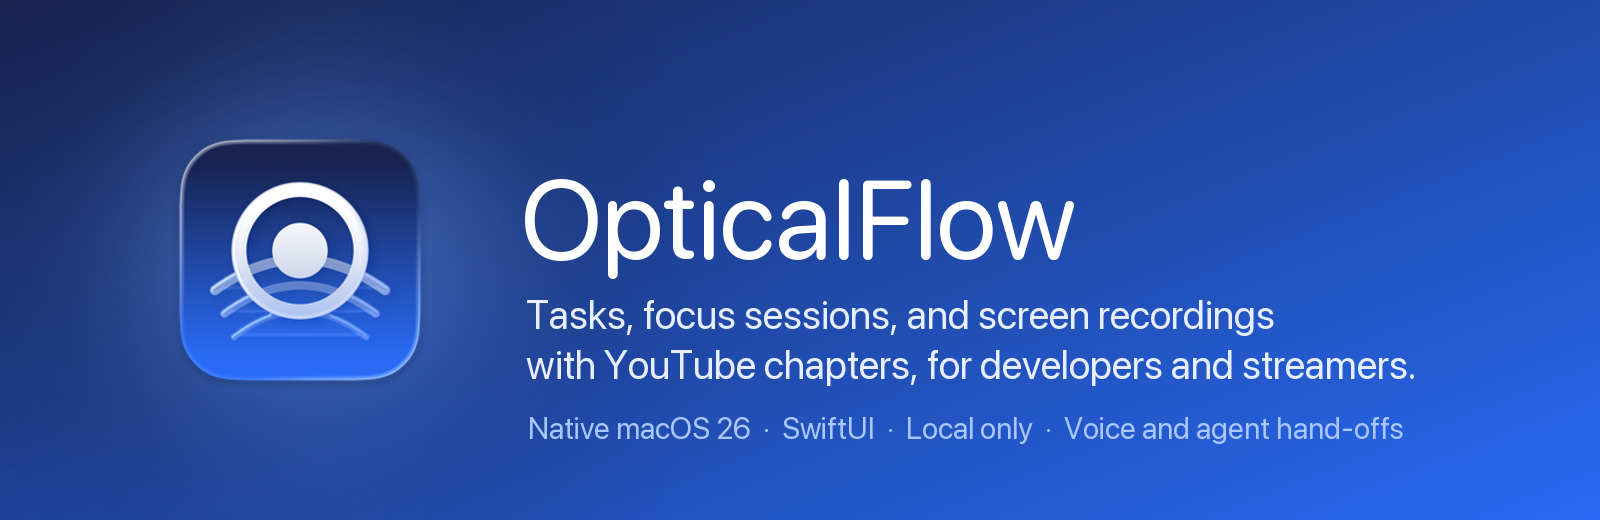
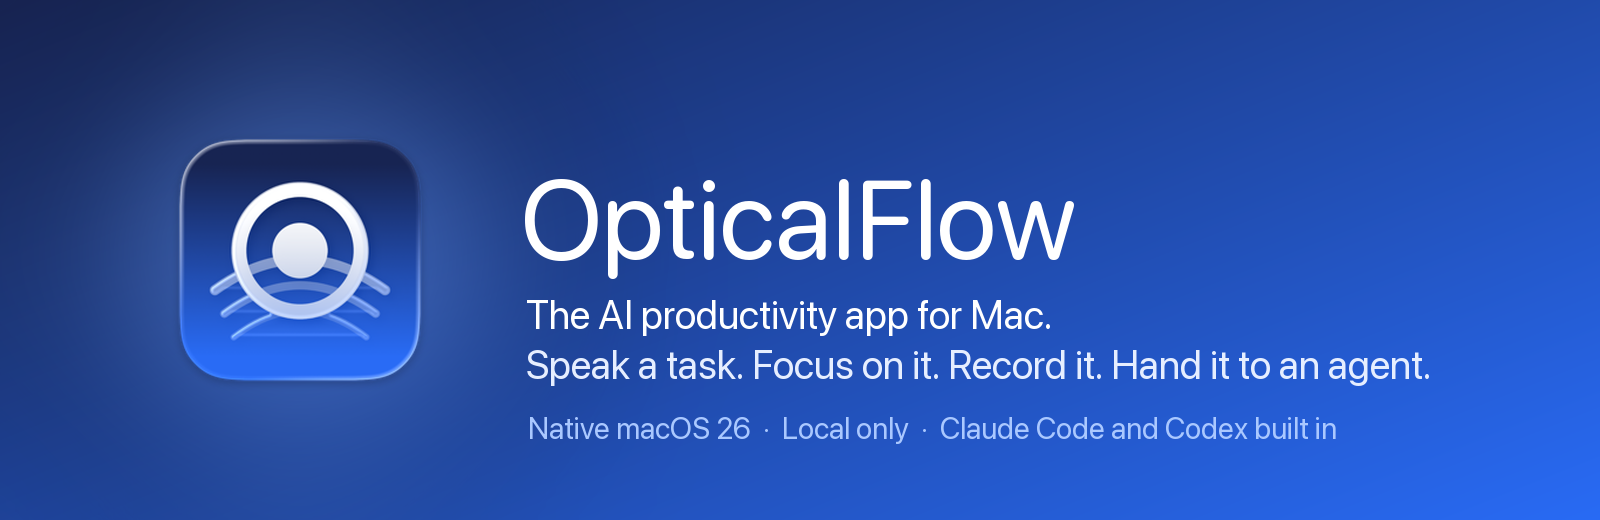
Repository page: positioned as the AI productivity app for Mac, with real Touch Bar captures and an AI-in-real-time picture

Changed region(s): [[0.3125, 0.6769, 0.9062, 0.7385], [0.3438, 0.5846, 0.8125, 0.6462], [0.4688, 0.8, 0.875, 0.8615]]

diff --git a/README.md b/README.md
@@ -18,9 +18,9 @@
   <a href="CONTRIBUTING.md">Contributing</a>
 </p>
 
-A native macOS app for developers, vibe coders and streamers: pick a task, run a focus session on it, record the screen while you work, and export the recording with YouTube chapters made from what you finished. Tasks can be spoken, and a task can be handed to Claude Code or Codex to work on in its own git worktree.
+**The AI productivity app for Mac.** Speak a task and it is filed with its date, priority and project. Focus on it with a timer that follows you to the menu bar, the mini timer and the Touch Bar. Record the screen while you work and export it with YouTube chapters. Hand the task to Claude Code or Codex and get back a branch with commits, not a promise.
 
-Everything lives on your Mac. No account, no server, no telemetry. Screenshots follow your GitHub theme.
+Native SwiftUI, one local database, no account, no server, no telemetry. The AI runs through the CLIs you already have installed and logged in. Screenshots below follow your GitHub theme.
 
 <picture><source media="(prefers-color-scheme: dark)" srcset="docs/screenshots/focus-running-dark.png"><img src="docs/screenshots/focus-running-light.png" alt="A running focus session with the countdown ring"></picture>
 
@@ -51,13 +51,29 @@ Everything lives on your Mac. No account, no server, no telemetry. Screenshots f
 </tr>
 </table>
 
+## AI, in real time
+
+<picture><source media="(prefers-color-scheme: dark)" srcset="docs/screenshots/ai-realtime-dark.png"><img src="docs/screenshots/ai-realtime-light.png" alt="Voice panel with the agent's steps, the background jobs list, and the result on the task card"></picture>
+
+Three levels, and you pick how far it goes:
+
+1. **On-device.** "Add fix the login loop to Fordan, due Friday at 3, high priority, repeat weekly." Dates, times, deadlines, repeats, priority, project and subtasks are parsed on the Mac. Nothing leaves it.
+2. **Orchestrator.** Anything the parser cannot settle goes to Claude Code or Codex, which drive the app through its own `opticalflow` CLI. Every command shows as it runs. Close the panel and keep working; the toolbar sparkles pulse until the answer lands on the card and a notification arrives.
+3. **Hand-off.** Give a task to the agent for real. It works on a branch in its own git worktree, the card shows commits, diff size and cost, and you open a draft pull request or discard the branch. The app never merges.
+
+## Touch Bar
+
+![Touch Bar: Record and Voice when idle, the countdown with Pause, Stop and Done during a session, and the Control Strip item next to brightness and volume while another app is in front](docs/screenshots/touchbar.png)
+
+In OpticalFlow the bar has the session controls. In any other app a Control Strip item keeps the countdown next to brightness and volume; tap it for Pause, Stop, Done, Record and Voice without switching apps. Turn it off in Settings > Sessions.
+
 ## What it does
 
-- **Tasks.** Inbox, Today, Upcoming, Someday and projects, keyboard first. Priority, subtasks, a planned day and a separate deadline, repeat rules, notes. Each project has a list and a kanban board (Backlog, To Do, Doing, Done).
-- **Focus sessions.** A countdown on a task from the window, the menu bar, a floating mini timer, or the Touch Bar Control Strip. Pause, overtime, breaks, idle detection, a session log.
-- **Recording.** Screen, system audio, microphone and camera through ScreenCaptureKit. Chapter markers while you record. Trim, camera bubble, follow the pointer, blur, YouTube preset on export. The chapter list comes from the tasks you completed and the markers you set.
 - **Voice and AI.** Press Control-Option-Space and say "add fix the login loop to Fordan, due Friday, high priority". Clear commands run at once on-device. Compound requests go to Claude Code or Codex, installed on your Mac, which call the app's own CLI. Answers land on the task card while you keep working.
 - **Hand a task to an agent.** Set a project's repository folder, choose Hand to Agent, and the app creates a branch and worktree, runs the agent with the task as its brief, then shows commits, diff size and cost on the card. Open a draft pull request or discard the branch. The app never merges.
+- **Tasks.** Inbox, Today, Upcoming, Someday and projects, keyboard first. Priority, subtasks, a planned day and a separate deadline, repeat rules, notes. Each project has a list and a kanban board (Backlog, To Do, Doing, Done).
+- **Focus sessions.** A countdown on a task from the window, the menu bar, a floating mini timer, or the Touch Bar. Pause, overtime, breaks, idle detection, a session log.
+- **Recording.** Screen, system audio, microphone and camera through ScreenCaptureKit. Chapter markers while you record. Trim, camera bubble, follow the pointer, blur, YouTube preset on export. The chapter list comes from the tasks you completed and the markers you set.
 - **CLI and MCP.** `opticalflow` drives the running app from any shell. The same binary is an MCP server for Claude Desktop.
 
 ## Requirements

diff --git a/TESTING.md b/TESTING.md
@@ -49,6 +49,10 @@ APP_AGENT_SOCKET=/tmp/of-test.sock "$app/Contents/MacOS/OpticalFlow" status --js
 
 Use the staged binary as the CLI, as above. The `opticalflow` on your PATH points at the installed app.
 
+### Touch Bar
+
+`screencapture -b touchbar.png` photographs the real Touch Bar. Bring a test instance to the front for OpticalFlow's own bar. For the Control Strip item, add `--env APP_STRIP=1` to the test launch (test instances skip the strip otherwise, so they never replace yours), then activate another app and capture.
+
 ## CI
 
 GitHub Actions builds the package and runs the unit tests on a macOS 26 runner. The self-test and snapshots need a logged-in desktop with ScreenCaptureKit, so they run locally; paste their last lines into the pull request.
